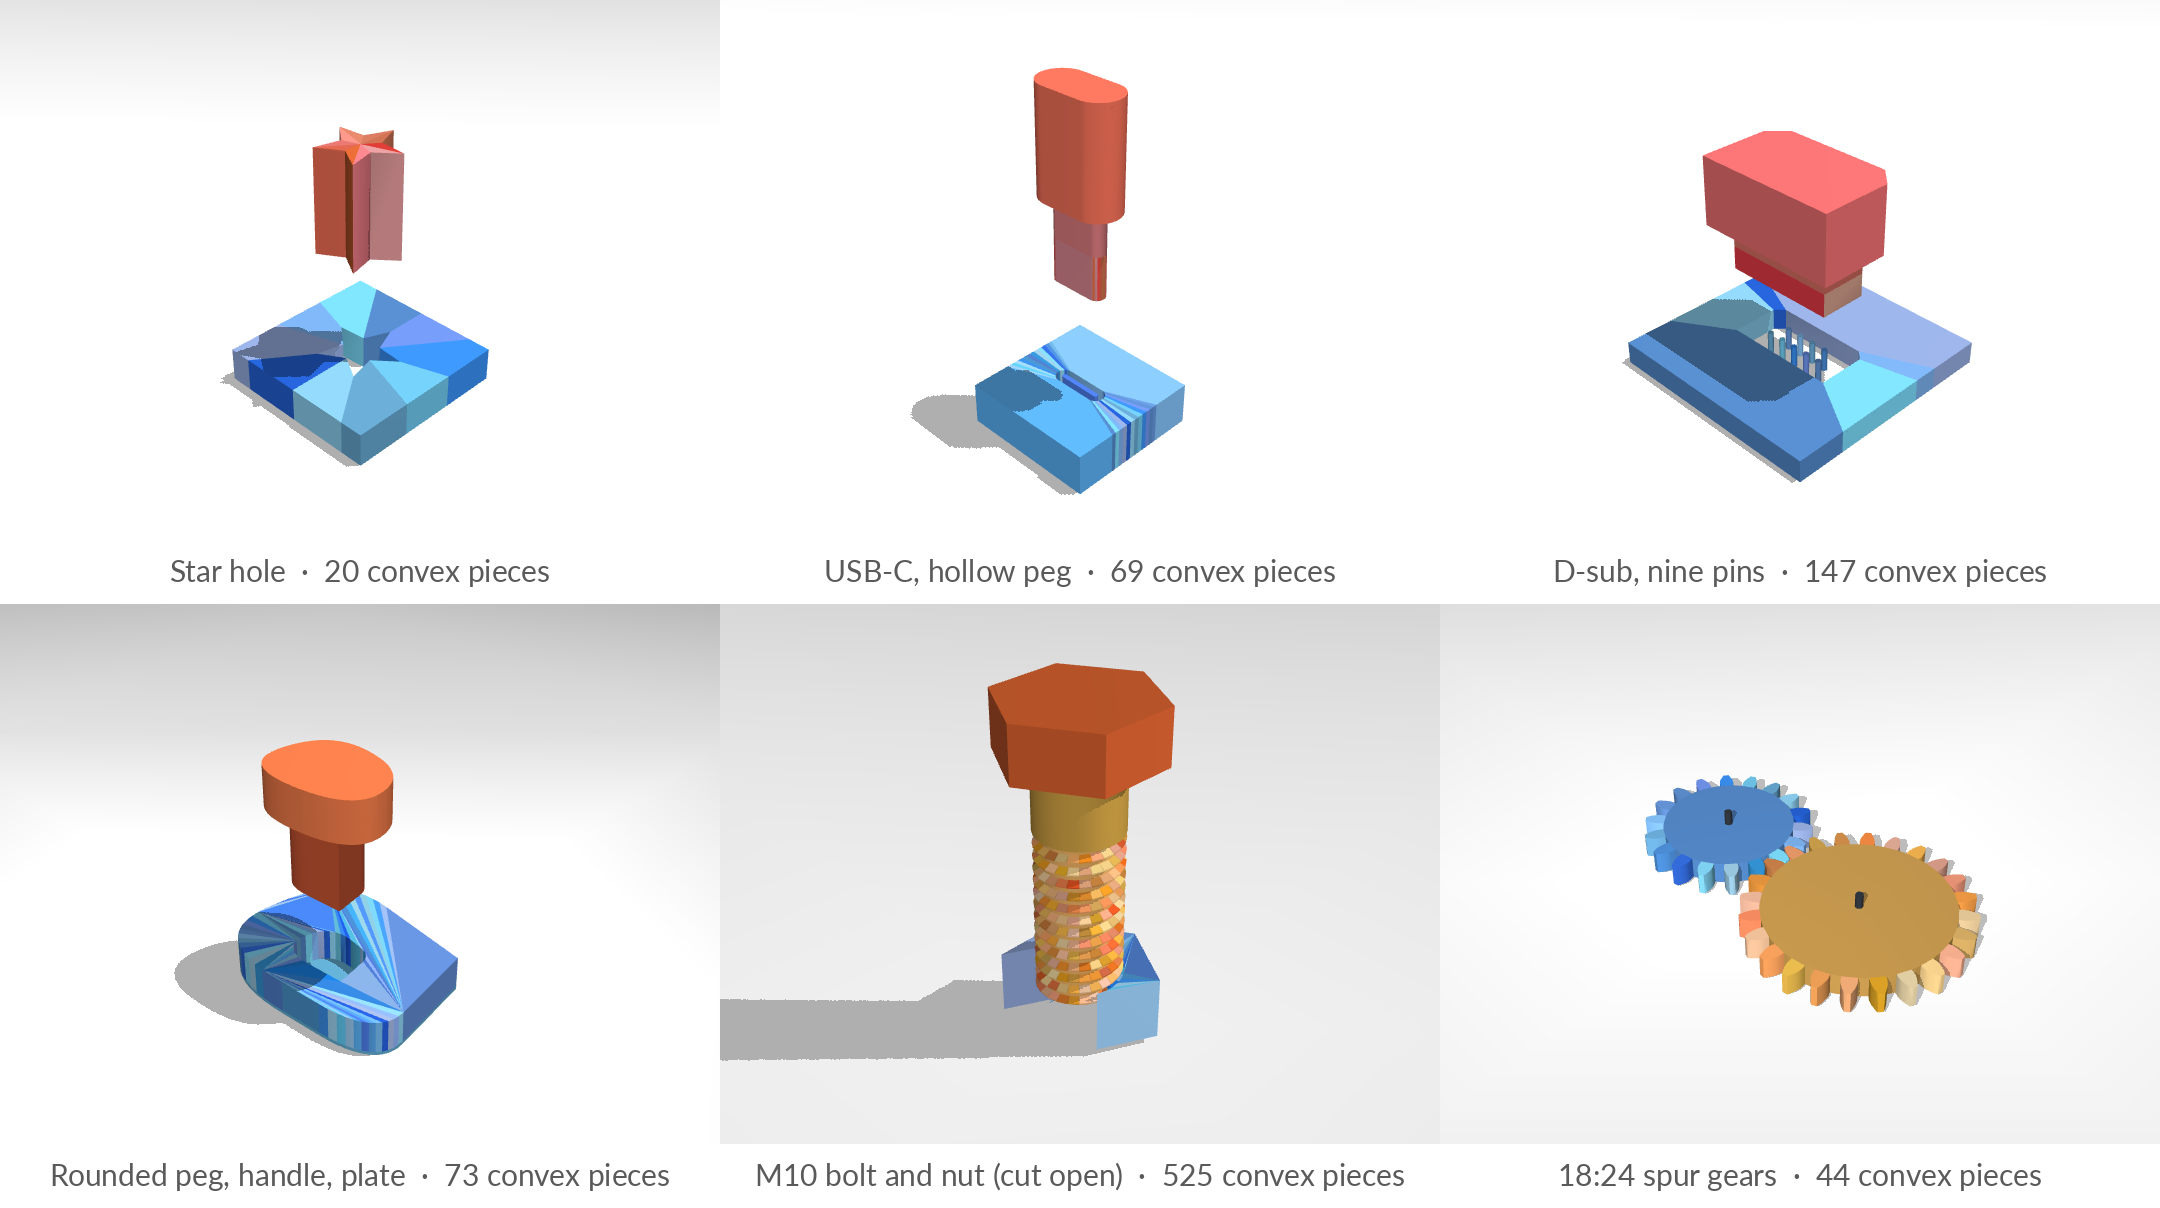
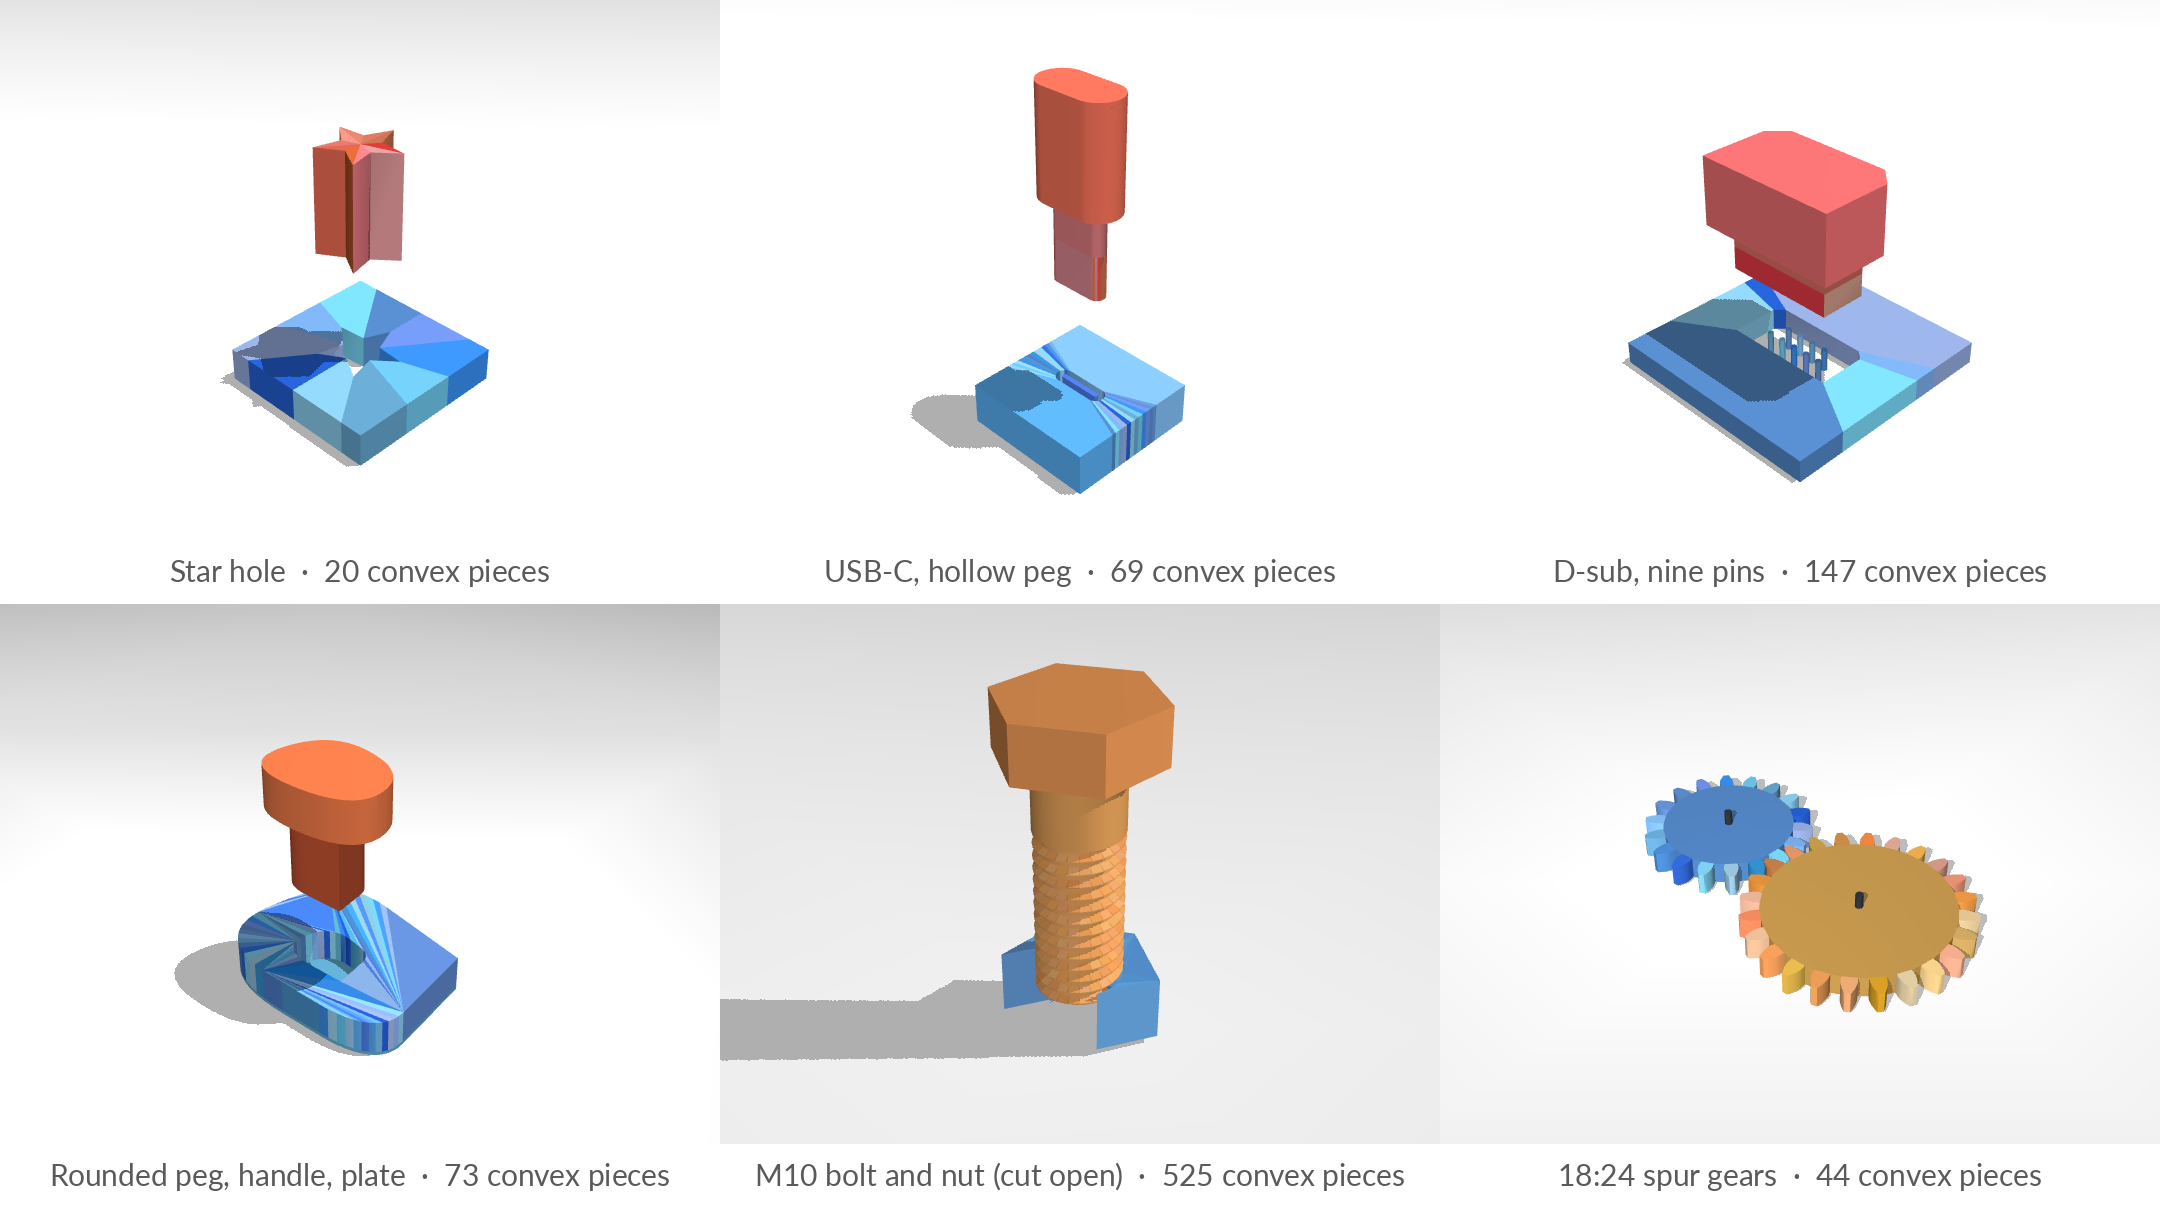
Gallery: tone down the thread tile's per-piece colors
The M10 bolt and nut are 525 pieces, most about a millimeter across.
Varied as much as the other tiles' pieces, their colors read as a
mottled texture, and the nut's sliver pieces as streaks. piece_colors
takes a `spread` that scales the variation; the thread tile uses 0.2.
The other tiles keep the full spread and render identically.

Changed region(s): [[0.4343, 0.5513, 0.5583, 0.6738], [0.4653, 0.7045, 0.5583, 0.8882]]

diff --git a/docs/make_images.py b/docs/make_images.py
@@ -54,8 +54,12 @@ def studio(xml_or_spec) -> mujoco.MjModel:
     return model
 
 
-def piece_colors(model: mujoco.MjModel, hues: dict[str, float]) -> None:
-    """One color per collision geom: a body's hue, varied in lightness and saturation."""
+def piece_colors(model: mujoco.MjModel, hues: dict[str, float], spread: float = 1.0) -> None:
+    """One color per collision geom: a body's hue, varied in lightness and saturation.
+
+    `spread` scales the variation. Hundreds of millimeter-sized pieces, as in a
+    thread, need little of it, or they read as noise.
+    """
     rng = np.random.default_rng(0)
     for g in range(model.ngeom):
         body = model.body(model.geom_bodyid[g]).name
@@ -65,8 +69,9 @@ def piece_colors(model: mujoco.MjModel, hues: dict[str, float]) -> None:
             model.geom_rgba[g, 3] = 0.0
         if model.geom_contype[g] == 0 or body == 'world':
             continue
-        hue = hues.get(body, 0.6) + rng.uniform(-0.04, 0.04)
-        light, sat = rng.uniform(0.45, 0.75), rng.uniform(0.45, 0.8)
+        hue = hues.get(body, 0.6) + spread * rng.uniform(-0.04, 0.04)
+        light = 0.6 + spread * rng.uniform(-0.15, 0.15)
+        sat = 0.625 + spread * rng.uniform(-0.175, 0.175)
         model.geom_rgba[g] = (*colorsys.hls_to_rgb(hue % 1, light, sat), 1.0)
         model.geom_group[g] = 0
 
@@ -109,6 +114,7 @@ def tile(name: str) -> tuple[Image.Image, int]:
     piece_colors(
         model,
         {'plate': 0.58, 'peg': 0.02, 'nut': 0.58, 'bolt': 0.08, 'gear_a': 0.58, 'gear_b': 0.08},
+        spread=0.2 if kind == 'thread' else 1.0,
     )
     if kind == 'peg':  # lift the peg out of the hole so both show
         j = model.joint('peg_joint').qposadr[0]
